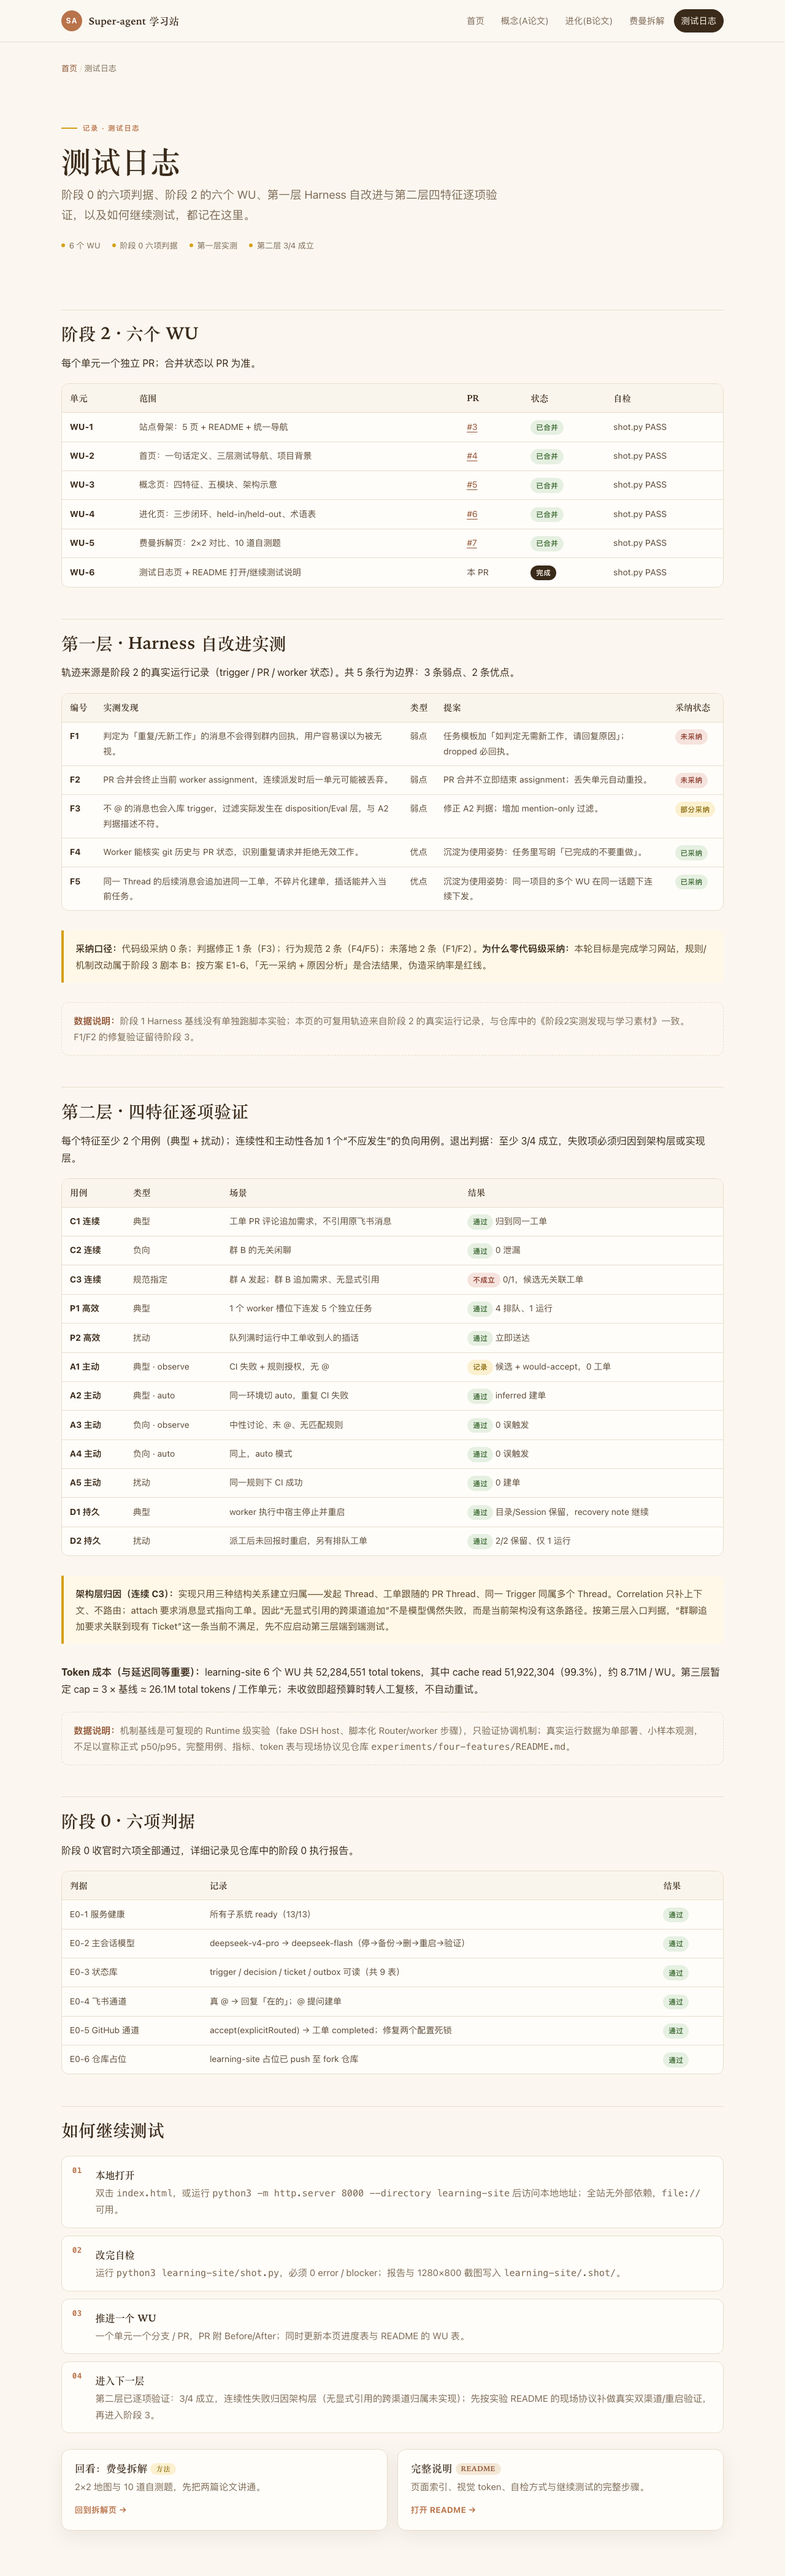
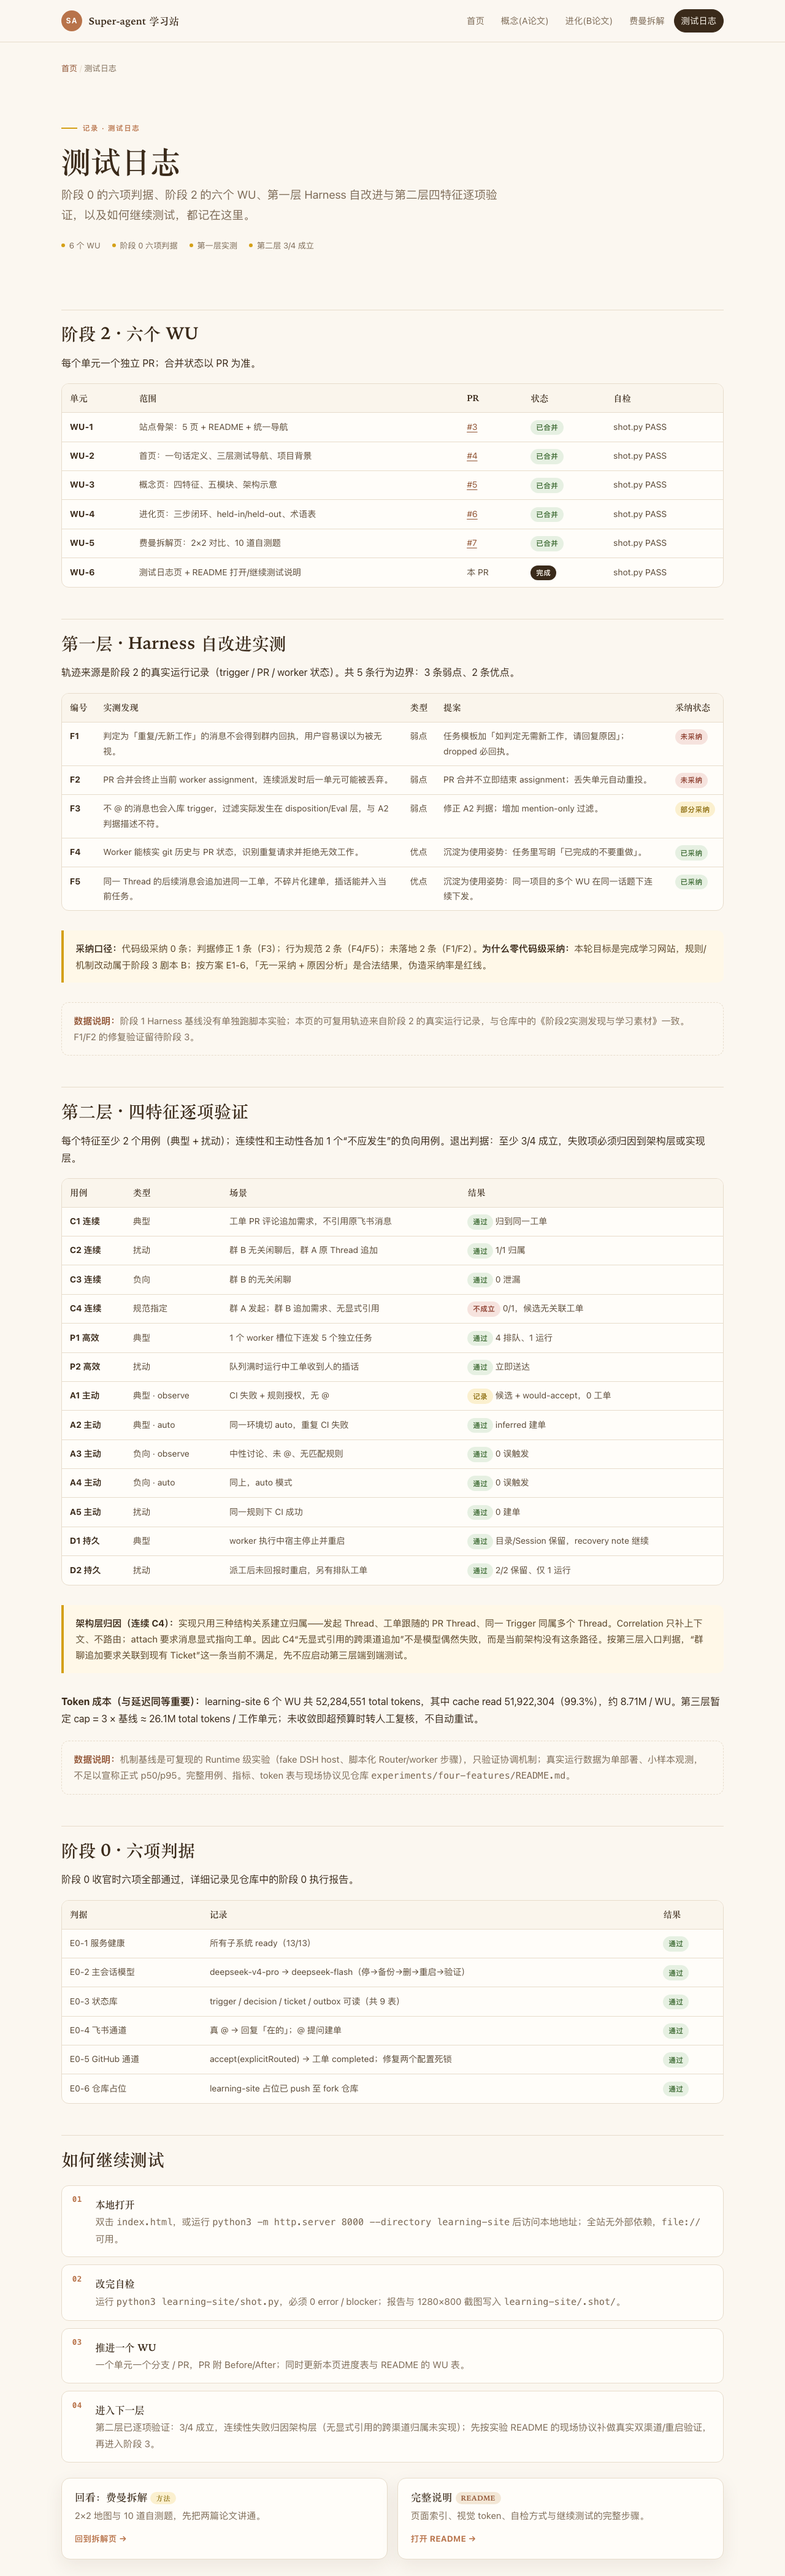
docs(experiments): label the continuity cases typical, perturbed, negative and specified
Keep the required negative case distinct from the specified unlinked
cross-channel case, and update the result table and learning-site page.

diff --git a/learning-site/test-log.html b/learning-site/test-log.html
@@ -229,8 +229,9 @@ th{font-family:var(--serif);color:var(--ink);background:#FAF5EC;white-space:nowr
             </thead>
             <tbody>
               <tr><td><b>C1 连续</b></td><td>典型</td><td>工单 PR 评论追加需求，不引用原飞书消息</td><td><span class="tag ok">通过</span> 归到同一工单</td></tr>
-              <tr><td><b>C2 连续</b></td><td>负向</td><td>群 B 的无关闲聊</td><td><span class="tag ok">通过</span> 0 泄漏</td></tr>
-              <tr><td><b>C3 连续</b></td><td>规范指定</td><td>群 A 发起；群 B 追加需求、无显式引用</td><td><span class="tag no">不成立</span> 0/1，候选无关联工单</td></tr>
+              <tr><td><b>C2 连续</b></td><td>扰动</td><td>群 B 无关闲聊后，群 A 原 Thread 追加</td><td><span class="tag ok">通过</span> 1/1 归属</td></tr>
+              <tr><td><b>C3 连续</b></td><td>负向</td><td>群 B 的无关闲聊</td><td><span class="tag ok">通过</span> 0 泄漏</td></tr>
+              <tr><td><b>C4 连续</b></td><td>规范指定</td><td>群 A 发起；群 B 追加需求、无显式引用</td><td><span class="tag no">不成立</span> 0/1，候选无关联工单</td></tr>
               <tr><td><b>P1 高效</b></td><td>典型</td><td>1 个 worker 槽位下连发 5 个独立任务</td><td><span class="tag ok">通过</span> 4 排队、1 运行</td></tr>
               <tr><td><b>P2 高效</b></td><td>扰动</td><td>队列满时运行中工单收到人的插话</td><td><span class="tag ok">通过</span> 立即送达</td></tr>
               <tr><td><b>A1 主动</b></td><td>典型 · observe</td><td>CI 失败 + 规则授权，无 @</td><td><span class="tag part">记录</span> 候选 + would-accept，0 工单</td></tr>
@@ -243,7 +244,7 @@ th{font-family:var(--serif);color:var(--ink);background:#FAF5EC;white-space:nowr
             </tbody>
           </table>
         </div>
-        <p class="note"><b>架构层归因（连续 C3）：</b>实现只用三种结构关系建立归属——发起 Thread、工单跟随的 PR Thread、同一 Trigger 同属多个 Thread。Correlation 只补上下文、不路由；attach 要求消息显式指向工单。因此“无显式引用的跨渠道追加”不是模型偶然失败，而是当前架构没有这条路径。按第三层入口判据，“群聊追加要求关联到现有 Ticket”这一条当前不满足，先不应启动第三层端到端测试。</p>
+        <p class="note"><b>架构层归因（连续 C4）：</b>实现只用三种结构关系建立归属——发起 Thread、工单跟随的 PR Thread、同一 Trigger 同属多个 Thread。Correlation 只补上下文、不路由；attach 要求消息显式指向工单。因此 C4“无显式引用的跨渠道追加”不是模型偶然失败，而是当前架构没有这条路径。按第三层入口判据，“群聊追加要求关联到现有 Ticket”这一条当前不满足，先不应启动第三层端到端测试。</p>
         <p class="section-lede"><b>Token 成本（与延迟同等重要）：</b>learning-site 6 个 WU 共 52,284,551 total tokens，其中 cache read 51,922,304（99.3%），约 8.71M / WU。第三层暂定 cap = 3 × 基线 ≈ 26.1M total tokens / 工作单元；未收敛即超预算时转人工复核，不自动重试。</p>
         <p class="pending"><b>数据说明：</b>机制基线是可复现的 Runtime 级实验（fake DSH host、脚本化 Router/worker 步骤），只验证协调机制；真实运行数据为单部署、小样本观测，不足以宣称正式 p50/p95。完整用例、指标、token 表与现场协议见仓库 <code>experiments/four-features/README.md</code>。</p>
       </section>

diff --git a/tests/four-features.spec.ts b/tests/four-features.spec.ts
@@ -105,8 +105,9 @@ describe('four features', () => {
       spec_case_met: unlinkedOk,
       cases: [
         { id: 'C1', kind: 'typical', scenario: 'PR comment on the ticket PR, no direct reference', attributed: crossDelivered ? 1 : 0, expected: 1, pass: crossDelivered },
-        { id: 'C2', kind: 'negative', scenario: 'unrelated chatter on another thread must not attach', unrelated_leaked: noiseLeaked ? 1 : 0, expected: 0, pass: !noiseLeaked && sameDelivered },
-        { id: 'C3', kind: 'specified-unlinked', scenario: 'requirement in Feishu chat B, no reference to chat A', auto_attributed: unlinkedDelivered ? 1 : 0, expected: 1, related_tickets_seen: card?.tickets_total ?? 0, pass: unlinkedOk },
+        { id: 'C2', kind: 'perturbed', scenario: 'unrelated chatter in chat B, then the chat A follow-up', followup_attributed: sameDelivered ? 1 : 0, expected: 1, pass: sameDelivered },
+        { id: 'C3', kind: 'negative', scenario: 'unrelated chatter in chat B must not attach to the chat A ticket', unrelated_leaked: noiseLeaked ? 1 : 0, expected: 0, pass: !noiseLeaked },
+        { id: 'C4', kind: 'specified-unlinked', scenario: 'requirement in Feishu chat B, no reference to chat A', auto_attributed: unlinkedDelivered ? 1 : 0, expected: 1, related_tickets_seen: card?.tickets_total ?? 0, pass: unlinkedOk },
       ],
       base_environment: { chats: 2, github_repository: 1 },
       new_tickets_from_linked_followups: host.runtime.store.tickets.list().length - ticketCount - 1,

diff --git a/experiments/four-features/README.md b/experiments/four-features/README.md
@@ -56,19 +56,20 @@
 pnpm vitest run tests/four-features.spec.ts
 ```
 
-结果写入 `experiments/four-features/results/four-features.json`。本轮 4 个实验场景的断言全部通过；退出判定为 **3/4 特征成立**（连续性的“无显式引用跨渠道”用例按观测记录为失败）。
+结果写入 `experiments/four-features/results/four-features.json`。本轮 4 个实验场景的断言全部通过；退出判定为 **3/4 特征成立**（连续性的 C4“无显式引用跨渠道”用例按观测记录为失败）。
 
 ### 4.1 连续 Continuity
 
 | 用例 | 类型 | 构造 | 期望 | 实测 |
 | --- | --- | --- | --- | --- |
 | C1 | 典型 | 工单已开 PR #42；需求追加在 PR 评论，不引用原飞书消息 | 归到同一工单，不新建 | ✅ 1/1，0 新决策、0 新工单 |
-| C2 | 负向 | 另一 Thread 的无关闲聊；随后原 Thread 的正常追加 | 闲聊不进入工单；正常追加进入 | ✅ 0 泄漏、1/1 归属 |
-| C3 | **规范指定** | 群 A 发起任务；群 B 追加需求，无显式引用 | 自动识别为同一任务的更新 | ❌ 0/1；候选 `related_tickets=0`，接受后新建工单 |
+| C2 | 扰动 | 群 B 的无关闲聊；随后群 A 原 Thread 的正常追加 | 正常追加进入 | ✅ 1/1 归属 |
+| C3 | 负向 | 群 B 的无关闲聊 | 不进入群 A 的工单 | ✅ 0 泄漏 |
+| C4 | **规范指定** | 群 A 发起任务；群 B 追加需求，无显式引用 | 自动识别为同一任务的更新 | ❌ 0/1；候选 `related_tickets=0`，接受后新建工单 |
 
 同一基础环境：两个飞书群 + 一个 GitHub 仓库，只改变用例输入，不重建系统。
 
-**架构层归因**：实现只用三种结构关系建立归属——发起 Thread、工单跟随的 PR Thread、同一 Trigger 同属多个 Thread（Correlation）。`docs/001-domain.md` 明确“Correlation 只补上下文，从不路由”，`docs/002-authorization.md` 要求主 Session 只在消息**显式指向**工单时 attach。因此 C3 不是模型偶然失败，而是当前架构没有“无显式引用的跨渠道归属”这条路径；要让 C3 成立，需要新增“按语义匹配并 attach”的机制，或要求来源提供可关联的业务键（如 issue/PR 编号）。
+**架构层归因**：实现只用三种结构关系建立归属——发起 Thread、工单跟随的 PR Thread、同一 Trigger 同属多个 Thread（Correlation）。`docs/001-domain.md` 明确“Correlation 只补上下文，从不路由”，`docs/002-authorization.md` 要求主 Session 只在消息**显式指向**工单时 attach。因此 C4 不是模型偶然失败，而是当前架构没有“无显式引用的跨渠道归属”这条路径；要让 C4 成立，需要新增“按语义匹配并 attach”的机制，或要求来源提供可关联的业务键（如 issue/PR 编号）。
 
 ### 4.2 高效 Productivity
 
@@ -141,7 +142,7 @@ pnpm vitest run tests/four-features.spec.ts
 | 共属多个 Thread 的 Trigger | 0 | 本部署未出现 Correlation 路由场景 |
 | 未 @ 的人工消息 | 12 | 4 条走 Eval 后 `no_mention` ignore；7 条作为既有 Thread 上下文；1 条评估超时 |
 | 未 @ 消息新建工单 | 0 | 中性场景误触发率 0.0 |
-| 真实跨渠道追加 | 0 | 本部署未出现“另一渠道追加到既有工单”的人工事件，C1/C3 仍以机制基线为准 |
+| 真实跨渠道追加 | 0 | 本部署未出现“另一渠道追加到既有工单”的人工事件，C1/C4 仍以机制基线为准 |
 
 本工单自身提供了一个**真实同 Thread 连续**样本：初始 trigger `d9d762d6…` 建单后，追加消息 `10d4b1e6…` 在 2 分钟内进入同一工单，未新建、未要求人工转述。
 
@@ -168,10 +169,10 @@ pnpm vitest run tests/four-features.spec.ts
 | 飞书 @ → Router 1 分钟内建 Ticket 并开始执行 | 观测通过 | 本工单 trigger 15:21:24 → Ticket 15:21:34（10 s）；实际 Ticket/Assignment 时间见状态库 |
 | Worker 在 Ticket 目录完成代码修改并创建 PR | 观测通过 | learning-site 工单 `8f6f1d62…` 的 6 个 WU 各开 PR #3–#8 |
 | PR 创建后飞书群收到含 PR 链接的消息 | 观测通过 | outbox `reply sent` 记录（PR #3–#8 的交付消息） |
-| 群聊追加要求关联到现有 Ticket，而非新建 | **不满足** | 连续 C3：无显式引用的另一群追加，`related_tickets=0`，接受后新建工单 |
+| 群聊追加要求关联到现有 Ticket，而非新建 | **不满足** | 连续 C4：无显式引用的另一群追加，`related_tickets=0`，接受后新建工单 |
 | Worker 重启后 Ticket 状态与代码变更不丢 | 机制与观测通过 | D1/D2 目录/Session 保留；真实工单 `58c2af53…` 有 recovery note |
 
-**结论：第三层不应在连续 C3 修复前启动**；其余入口判据已有机制或观测证据。修复方向是给“无显式引用的跨渠道更新”增加可关联业务键（如 issue/PR 编号）或按语义 attach 的显式路径，而不是放宽本层判据。
+**结论：第三层不应在连续 C4 修复前启动**；其余入口判据已有机制或观测证据。修复方向是给“无显式引用的跨渠道更新”增加可关联业务键（如 issue/PR 编号）或按语义 attach 的显式路径，而不是放宽本层判据。
 
 ## 7 效度威胁、未验证项与现场协议
 
@@ -180,11 +181,11 @@ pnpm vitest run tests/four-features.spec.ts
 1. 机制基线用 fake DSH host，Router/worker 的模型步骤是脚本；它验证系统编排，不验证模型语义判断。
 2. 观测基线是单部署、小样本、非受控；token 总量随当前工单增长，表内为快照值。
 3. 没有单 Session 对照组，无法计算“2–3 倍缓存读取”的比例，也无法复现外部 p50/p95。
-4. 真实环境未做受控重启；C1/C3 未在真实飞书/GitHub 双渠道上重放。
+4. 真实环境未做受控重启；C1/C4 未在真实飞书/GitHub 双渠道上重放。
 
 **仍需人类执行的现场协议**（建议在第三层前完成，结果写回本文件）
 
-- **连续 C3 真实验证**：在 GitHub Issue 发起任务 → 合并前在**另一个飞书群/私聊**追加一条不引用 Issue 的修改要求 → 观察是否自动归属到同一 Work Item；记录归属结果与人工澄清次数。
+- **连续 C4 真实验证**：在 GitHub Issue 发起任务 → 合并前在**另一个飞书群/私聊**追加一条不引用 Issue 的修改要求 → 观察是否自动归属到同一 Work Item；记录归属结果与人工澄清次数。
 - **主动 A1 真实验证**：配置 `CI 失败 → 修复` 规则并打开默认分支 CI 接收 → 在默认分支制造一次失败（不要用生产分支）→ 观察无 @ 是否在合理时间内建单。
 - **持久真实重启**：在一个长任务执行中重启服务 → 检查在途 assignment 是否带 recovery note 恢复、人工步骤数与恢复后继续产出时间。
 - **高效尾延迟**：至少 20 个工作请求 × 3 次重复，分别记录 p50/p95 与每任务 token；没有单 Session 对照就只报告本环境数字。
